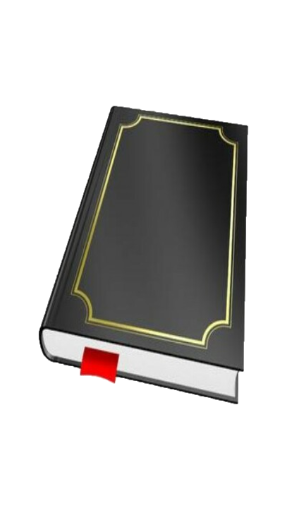
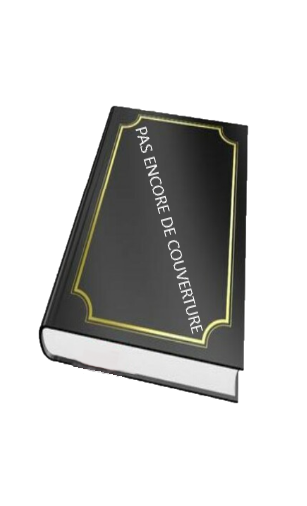
Ajout dans le menu d'inscription et ajout de d'une image

diff --git a/src/recherche.php b/src/recherche.php
@@ -15,7 +15,7 @@
 	<?php
 	$q = htmlspecialchars($_GET['q']); //Protection contre la saisie utilisateur
 	$articles = $bdd->query('SELECT * FROM livre LEFT JOIN genre ON genre.id = livre.genre LEFT JOIN editeur ON editeur.id = livre.editeur LEFT JOIN auteur ON idLivre = isbn LEFT JOIN personne ON idPersonne = personne.id WHERE isbn= "'.$q.'"  OR titre LIKE "%'.$q.'%" ');
-		
+
 	 if(isset($_GET['q']) AND !empty($_GET['q'])) { //Si le champs recherche n'est pas vide alors fait la recherche
 		if($articles->rowCount() > 0) {  // Si le nombre le résultat trouvé est supérieur à 0 
 			?>
@@ -23,7 +23,7 @@
 			<?php
 		while($a = $articles->fetch()){
 			$image = 'img/'.$a["isbn"].'.jpg';
-			$image_par_defaut = 'img/0.jpg';
+			$image_par_defaut = 'img/0.png';
 			?>
 			<section class="idlivre">
 						<a href="details_livre.php?isbn=<?= ($a['isbn']) ?>&amp;genre=<?= ($a['genre']) ?>"> <!-- Permet de rediriger la donnée titre et genre vers la page détails-->
@@ -31,9 +31,9 @@
 								<td>
 								<?php
 								if(is_file($image)){
-										
+
 									echo '<img class="iD" src="'.$image.'">';
-									
+
 								}else {
 									echo '<img class="i" src="'.$image_par_defaut.'">';
 								}
@@ -43,7 +43,7 @@
 								echo '<p><em>Genre : '.$a["libelle"].'</em></p>';
 								echo '<p><em>Editeur : '.$a["editeur"].'</em></p>';
 									?>
-								</td>	
+								</td>
 							<tr>
 						</a>
 					</section>

diff --git a/src/header.php b/src/header.php
@@ -32,7 +32,7 @@
 								<li><a href="reservation.php">Mes réservation</a></li>
 							</ul>
 						</li>
-						<li><a href="deco.php">Déconnexion<img class="img_menu2" src="img/deco.png"/></a></li>
+						<li><a href="deco.php" title="Déconnexion"><img class="img_menu2" src="img/deco.png"/></a></li>
 					<?php
 					}else if(!empty($_SESSION['group']) &&  $_SESSION['group'] == "membre" ){
 						?>
@@ -46,7 +46,8 @@
 					<?php
 						}else{
 							?>
-							<li><a href="connexion.php" title="Pour ajouter de nouveau livre vous devez être connecté">Connexion</a></li>
+							<li><a href="connexion.php" title="vous connectez">Connexion</a></li>
+							<li><a href="register.php" title="vous inscrire ">Inscription</a></li>
 							<?php
 						}
 					 ?>

diff --git a/src/connexion.php b/src/connexion.php
@@ -37,7 +37,6 @@ include "header.php";
             <label for="pseudo">Identifiant</label> : <input  class="input" type="text" name="pseudo" id="pseudo" placeholder=" "/><br /><br />
             <label for="mdp">Mot de passe</label> :  <input  class="input"type="password" name="mdp" id="mdp" /><br><br>
             <input style="text-align: center; color: #2ECC71;" class="button" type="submit" value="Connexion"/>
-            <a href="register.php"><input style="color: #9683EC;" class="button" type="button" value="Inscription"></a>
         </form>
 </fieldset>
 <br/><br/><br/>

diff --git a/src/Ajout_Edit_Post.php b/src/Ajout_Edit_Post.php
@@ -7,7 +7,7 @@ include "bdd.php"?>
 $libelle = $_POST['libelle'];
 
 if(empty($libelle)){
-	header('Location: Ajout_Edi.php');
+	header('Location: ajout_Edi.php');
 }
 else{
 // Insertion du genre à l'aide d'une requête préparée
@@ -15,5 +15,5 @@ $req = $bdd->prepare('INSERT INTO editeur (editeur) VALUES(?)');
 $req->execute(array(htmlspecialchars($_POST['libelle'])));
 
 // Redirection du visiteur vers le formulaire d'ajout
-header('Location: Ajout_Edi.php');
+header('Location: ajout_Edi.php');
 }?>

diff --git a/src/Ajout_G_Post.php b/src/Ajout_G_Post.php
@@ -2,7 +2,7 @@
 session_start();
 ?>
 <?php
-include "bdd.php"?>
+include "bdd.php" ?>
 <?php
 
 
